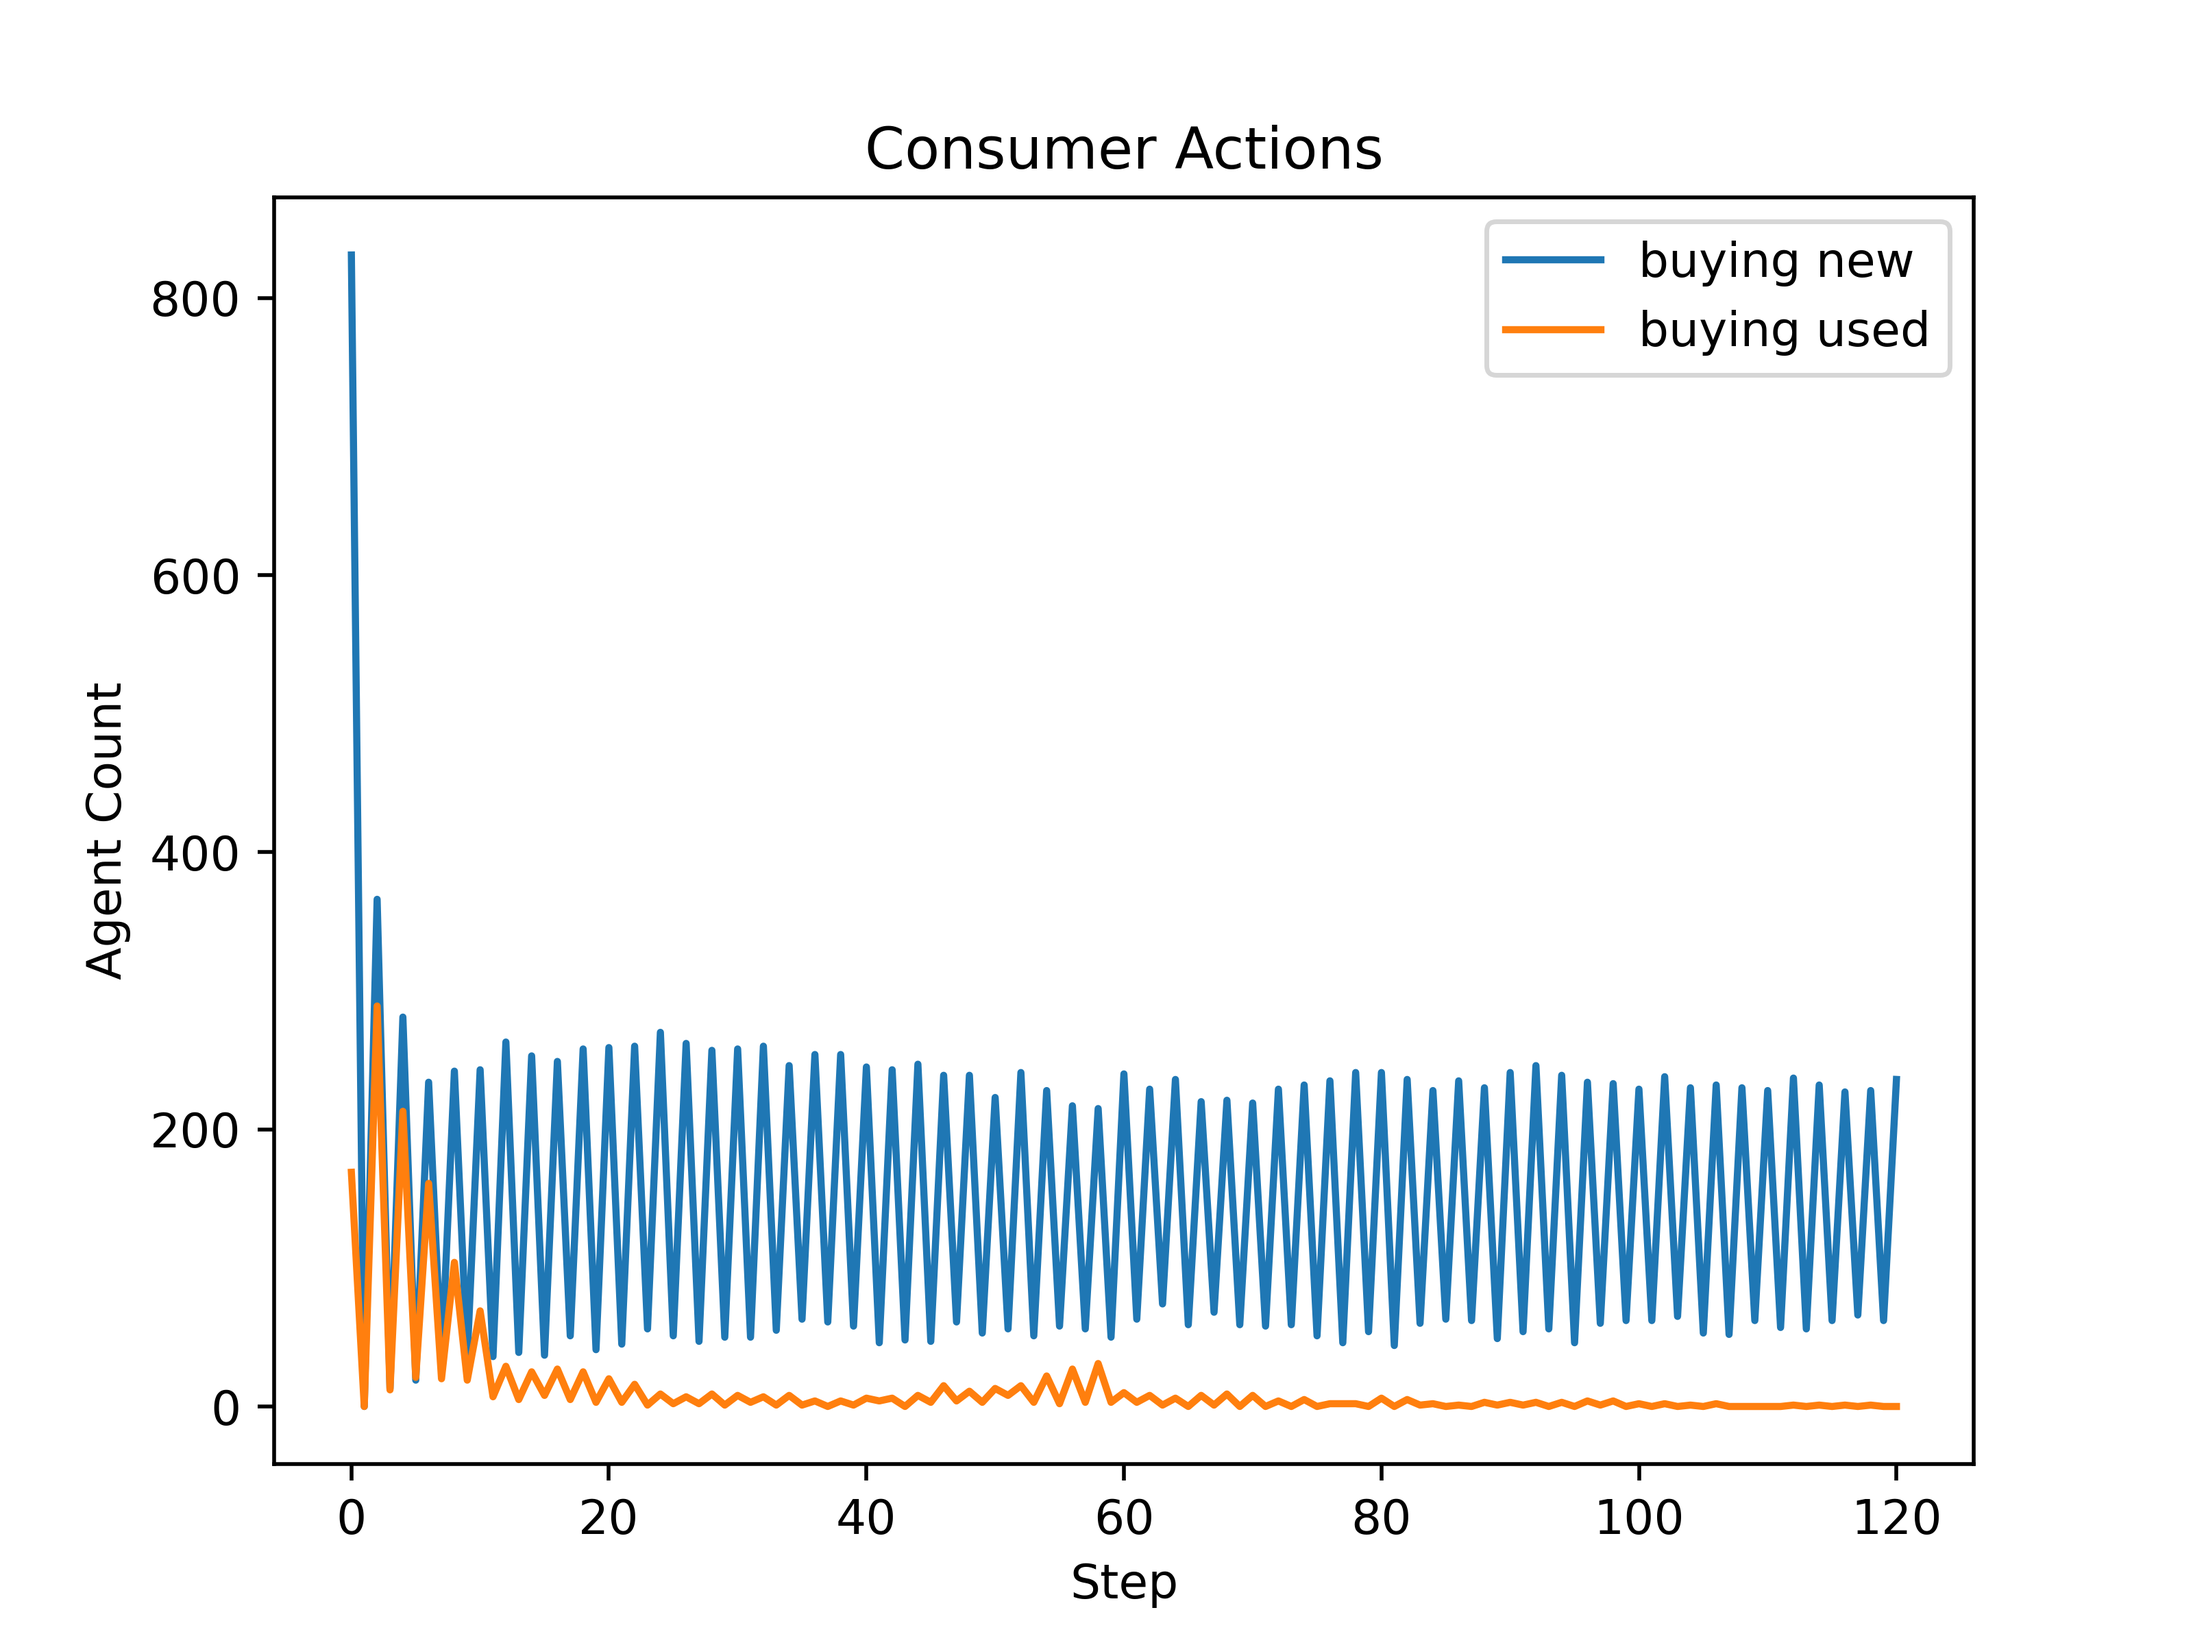
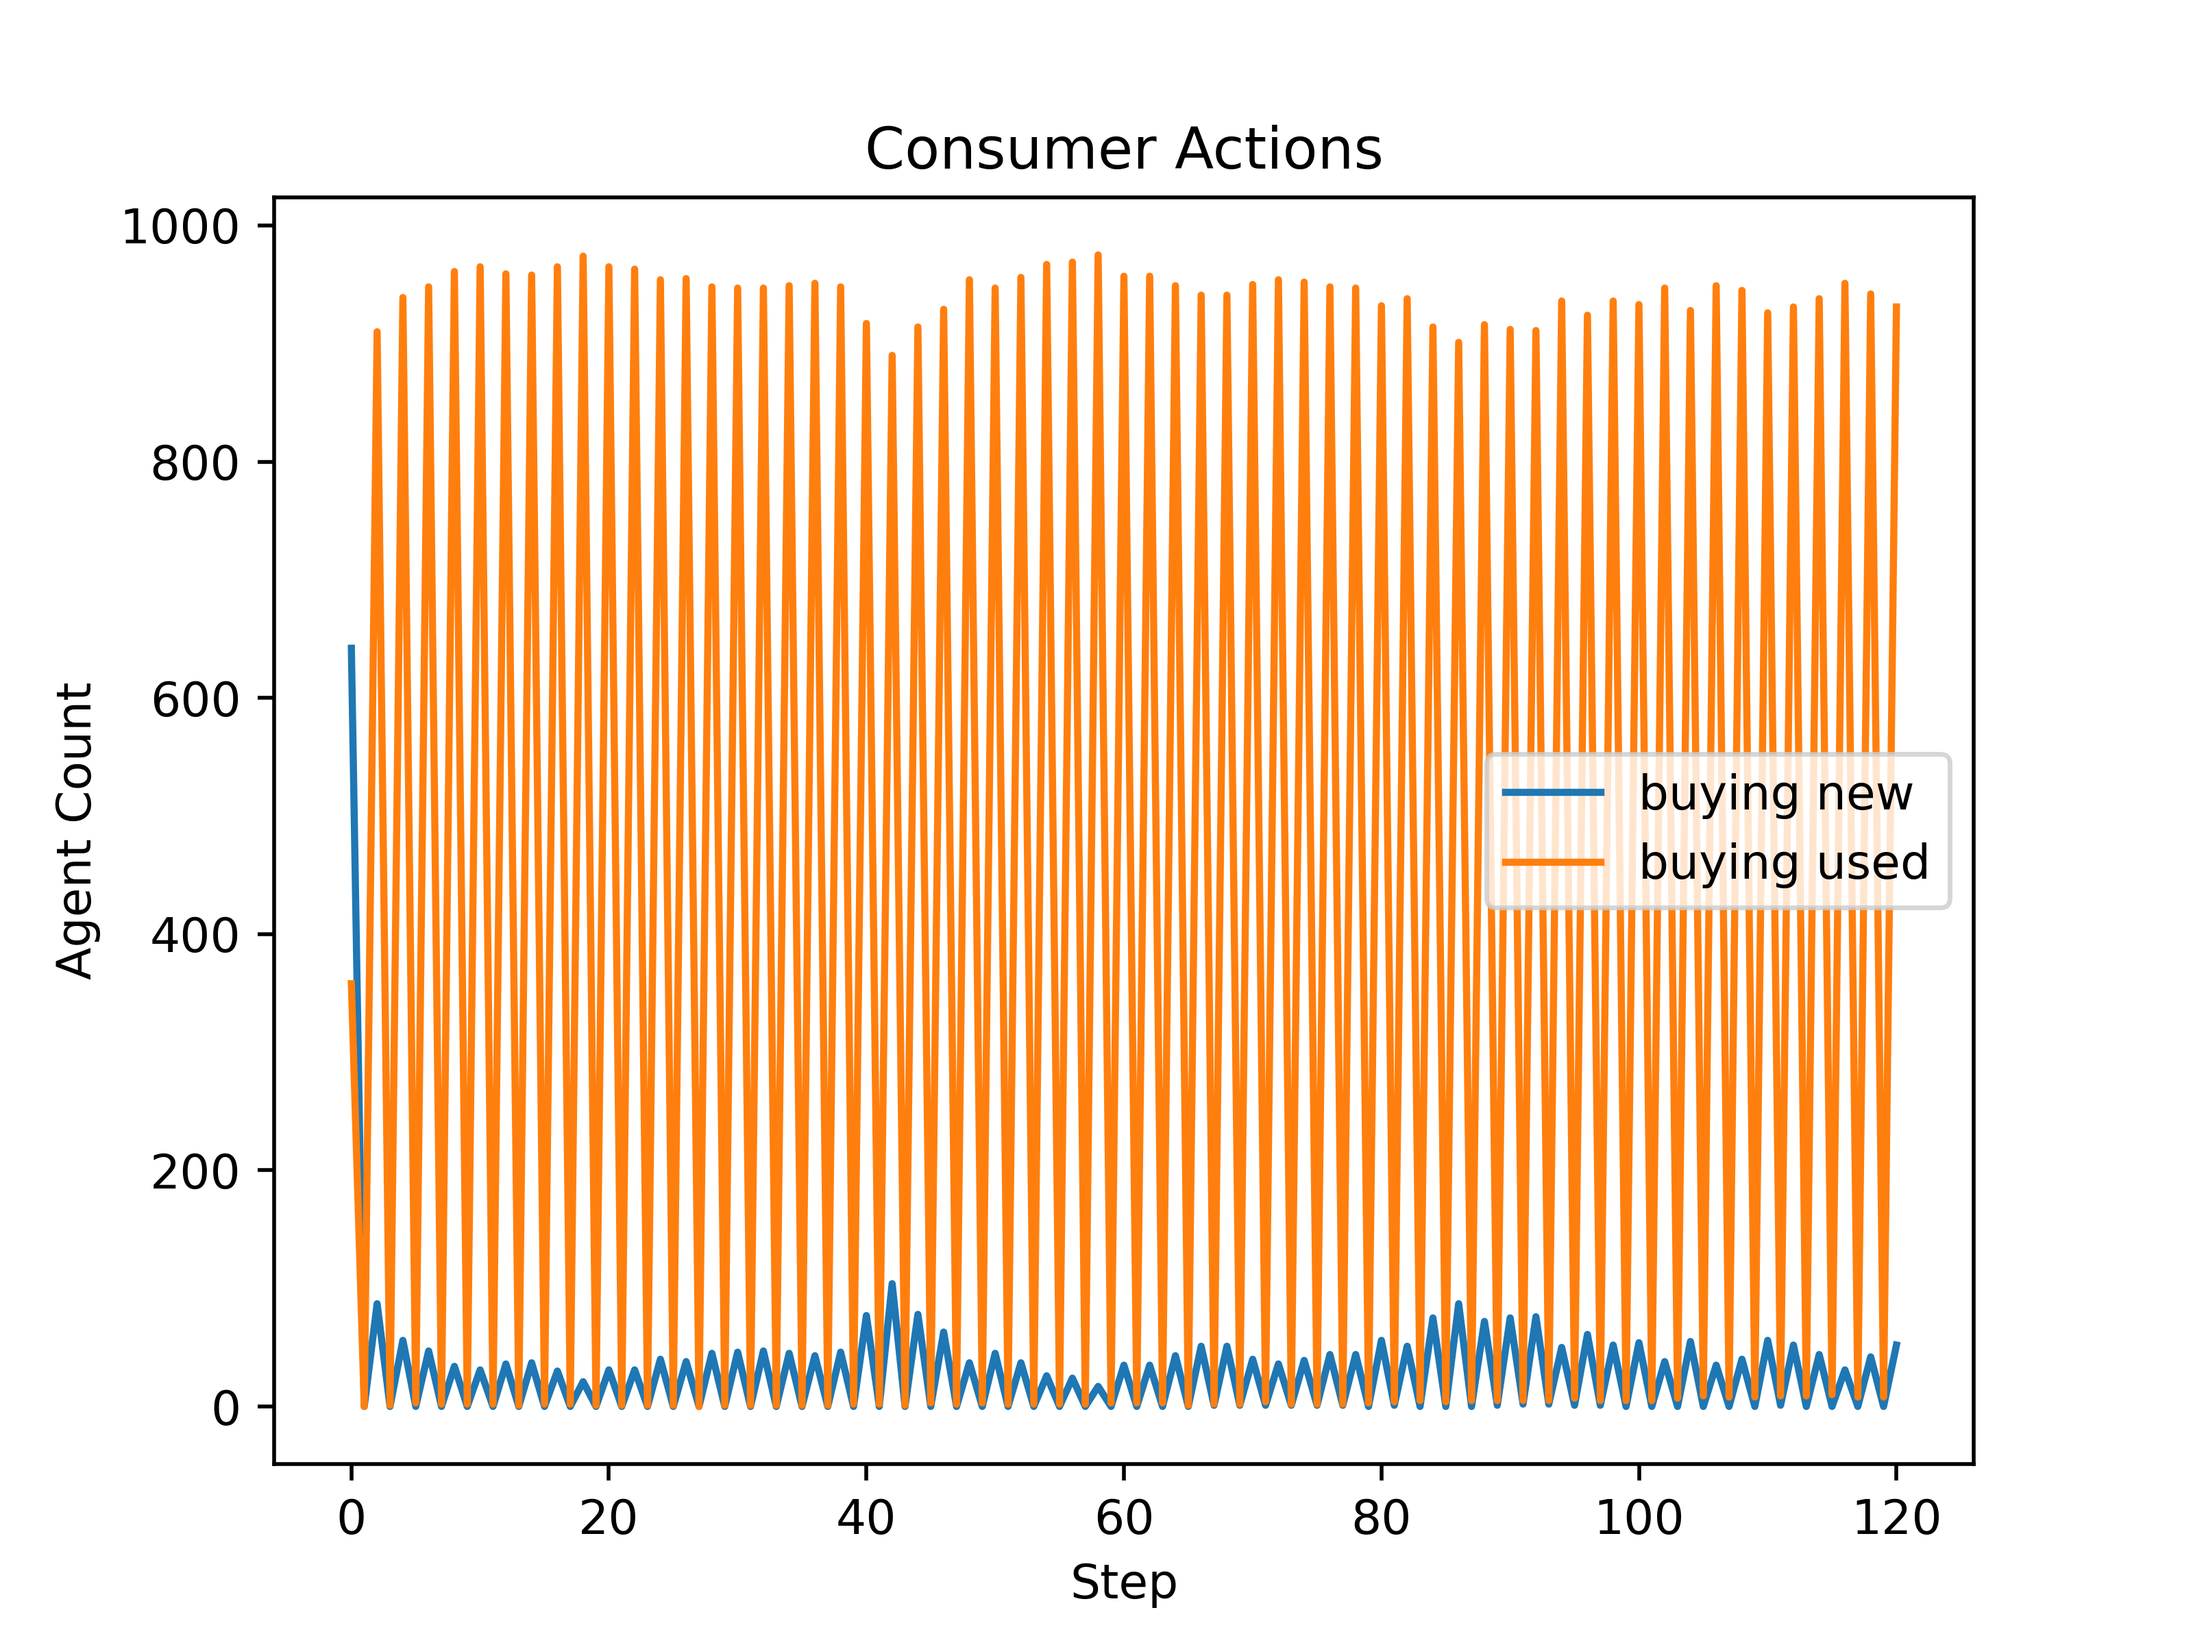
v

diff --git a/ABM_Consumer.py b/ABM_Consumer.py
@@ -65,8 +65,7 @@ class Consumer(Agent):
         # income part
         self.i_mu = 8
         self.i_sigma = 0.44
-        self.income = int(np.random.lognormal(
-            self.i_mu, self.i_sigma, 1))
+        self.income = int(np.random.lognormal(self.i_mu, self.i_sigma, 1))
 
         self.repair_cost = 0
         self.repair_min_perf = 0.35
@@ -74,9 +73,9 @@ class Consumer(Agent):
         self.repair_max_times = 6
 
         self.resell_cost = 0
-        self.landfill_cost = 10
+        self.landfill_cost = float(np.random.normal(0., 0.05))
 
-        self.hoard_cost = 10
+        self.hoard_cost = float(np.random.normal(0., 0.05))
         self.hoard_min_perf = 0.3
         self.recycle_cost = 0
 
@@ -104,11 +103,11 @@ class Consumer(Agent):
                                self.eol_choices[3]: 0.25,
                                self.eol_choices[4]: 0.25}
         # Need to update
-        self.pbc_costs_eol =  {self.eol_choices[0]: 0.005,
-                               self.eol_choices[1]: 0.01,
+        self.pbc_costs_eol =  {self.eol_choices[0]: 0.1,
+                               self.eol_choices[1]: 0.1,
                                self.eol_choices[2]: 0.1,
-                               self.eol_choices[3]: 0.4425,
-                               self.eol_choices[4]: 0.4425}
+                               self.eol_choices[3]: 0.1,
+                               self.eol_choices[4]: 0.1}
 
         # column sum up to 1
         self.purchase_choices = ["used", "new"]
@@ -117,9 +116,9 @@ class Consumer(Agent):
         self.weight_pbc_purchase = {self.purchase_choices[0]: 0.45, self.purchase_choices[1]: 0.45}
 
         # Need to update
-        self.pbc_costs_purchase =  {self.purchase_choices[0]: 0.00, self.purchase_choices[1]: 0.00}
-        self.att_level_buy_used = float(np.random.normal(0.2, 0.05))
-        self.att_level_recycle = float(np.random.normal(0.4, 0.05))
+        self.pbc_costs_purchase =  {self.purchase_choices[0]: 0., self.purchase_choices[1]: 0.}
+        self.att_level_buy_used = float(np.random.normal(0.3, 0.05))
+        self.att_level_recycle = float(np.random.normal(0.3, 0.05))
         self.behavior_intention = {}
 
         # Recycle PBC intention
@@ -316,9 +315,9 @@ class Consumer(Agent):
             self.behavior_intention[choice] = \
                 pbc_values[choice] + sn_values[choice] + att_values[choice]
             #######################################################################
-            # if decision == "eol_pathway":
-            #     print(f'Consumer {self.unique_id}, {choice}, score={self.behavior_intention[choice]:.2f}, ' 
-            #       f'[{pbc_values[choice]:.2f}, {sn_values[choice]:.2f}, {att_values[choice]:.2f}]')
+            if decision == "eol_pathway":
+                print(f'Consumer {self.unique_id}, {choice}, sum={self.behavior_intention[choice]:.2f}, ' 
+                  f'[pbc={pbc_values[choice]:.2f}, sn={sn_values[choice]:.2f}, att={att_values[choice]:.2f}]')
         
         self.pathway_action = max(self.behavior_intention, key=self.behavior_intention.get)
         
@@ -354,7 +353,7 @@ class Consumer(Agent):
         """
         # repair cost need to be paid by consumer
         self.repair_cost = self.smartphone.calculate_repair_cost()
-        # reresell cost is paid by second-hand store
+        # resell cost is paid by second-hand store
         self.resell_cost = -self.smartphone.calculate_resell_price_sechnd()
         # recycle cost is paid by second-hand store
         self.recycle_cost = -self.smartphone.calculate_recycle_price()
@@ -364,6 +363,7 @@ class Consumer(Agent):
             "recycle": self.recycle_cost / self.income, 
             "landfill": self.landfill_cost, 
             "hoard": self.hoard_cost}
+        # print(f'{self.unique_id}, {self.pbc_costs_eol}')
 
     def use_smartphone(self):
         """
@@ -392,15 +392,6 @@ class Consumer(Agent):
             else:
                 print(f"pathway_choice={self.pathway_action} is not available.")
                 raise NotImplementedError
-
-    def dispose_smartphone_in_landfill(self):
-        """
-        Disposing the current smartphone in a landfill.
-        """
-        if self.smartphone is not None:
-            self.smartphone.remove()
-        self.smartphone = None
-        # print(f"Consumer {self.consumer_id} landfilled their smartphone.")
 
     def repair_smartphone(self):
         """
@@ -475,7 +466,7 @@ class Consumer(Agent):
         # Calculate min and max
         values = list(income2price.values())
         min_value = min(values)
-        max_value = min(max(values), 1)
+        max_value = max(values)
         # Apply min-max normalization formula
         n_income2price = {
             key: (value - min_value) / (max_value - min_value)
@@ -590,20 +581,28 @@ class Consumer(Agent):
             processor.recycle_from_customer(self.smartphone, self.unique_id)
             self.smartphone = None
     
+    def landfill_smartphone(self):
+        """
+        Disposing the current smartphone in a landfill.
+        """
+        if self.smartphone is not None:
+            self.smartphone.remove()
+        self.smartphone = None
+        # print(f"Consumer {self.consumer_id} landfilled their smartphone.")
+
     def step(self):
         """
         Main simulation step for the consumer.
         """
-        self.update_purchase_cost()
         if self.model.steps % 12 == 0:
             self.update_income() # update the income according to Matthew Effect
         
         # Check if the consumer needs a smartphone and update 'self.to_purchase'
         self.to_purchase = self.smartphone is None
-
         if self.to_purchase:
             # Decide whether to purchase new or used smartphone
             # update 'self.pathway_choice'
+            self.update_purchase_cost()
             self.tpb_decision(
                 decision='purchase_choice',
                 weight_att=self.weight_att_purchase,
@@ -623,10 +622,8 @@ class Consumer(Agent):
 
         else:
             # Use the smartphone and check EoL decision
-            # update 'self.pathway_choice'
-            self.use_smartphone()
             self.update_eol_cost()
-
+            self.use_smartphone()
             self.tpb_decision(
                 decision='eol_pathway',
                 weight_att=self.weight_att_eol,

diff --git a/ABM_Smartphone.py b/ABM_Smartphone.py
@@ -9,7 +9,7 @@ class Smartphone(Agent):
     def __init__(
             self,
             model,
-            is_new,
+            is_new=True,
             producer_id=None,
             user_id=None,
             performance=1.0,
@@ -53,9 +53,9 @@ class Smartphone(Agent):
         self.demand_used = random.uniform(-0.2, 0.2) # demand of use for each smartphone
         self.discount_rate = random.uniform(0.9, 1.0) # demand of use for each smartphone
         self.material_value = 500 # material_value depends on the ingredients of product
+        self.warranty_duration = 6 if self.is_new else 0  # New phones come with 6 months warranty
         self.resell_value = self.calculate_resell_price_sechnd()  # Value if resold in the second-hand market
-        self.warranty_duration = 6 if self.is_new else 0  # New phones come with 12 months warranty
-
+        
         # Recycle Service
         self.perf_rec = 0.1
         self.time_rec = 0.2
@@ -91,7 +91,7 @@ class Smartphone(Agent):
             self.degrade_performance(decay_rate=self.decay_rate, noise_decay=self.noise_decay)
         else:
             self.degrade_performance(decay_rate=0.5 * self.decay_rate, noise_decay=self.noise_decay)
-        # update cost price for eol
+        # # update cost price for eol
         self.calculate_repair_cost()
         self.calculate_recycle_price()
         self.calculate_resell_price_sechnd()
@@ -106,7 +106,7 @@ class Smartphone(Agent):
         store_initial_cost (float): Initial repair cost for second-hand store or recycler.
         store_handled_phones (int): current number of phones handled by the store or recycler.
         """
-        if self.time_held < self.warranty_duration:  # Phone is under warranty
+        if self.time_held <= self.warranty_duration:  # Phone is under warranty
             self.repair_cost = 0  # Free repair under warranty (or set to a very low cost)
             # print(f"Phone is under warranty. Repair cost: {self.repair_cost}")
         
@@ -147,11 +147,13 @@ class Smartphone(Agent):
             float: The price the second-hand store is willing to pay for the used smartphone.
         """
         # Normalized repair cost (repair cost relative to new phone price)
+        self.calculate_repair_cost()
         normalized_repair_cost = self.repair_cost / self.purchase_price
-        # Calculate the buying price considering performance, repair cost, and demand
-        buying_price = (self.purchase_price * self.performance) * (1 - normalized_repair_cost)
-        # Adjust the buying price based on the demand for used phones
-        self.resell_price = buying_price * (1 + self.demand_used)
+        # Calculate the buying price considering performance, repair cost, and demand for used phones
+        buying_price = self.purchase_price * self.performance * \
+            (1 - normalized_repair_cost) * (1 + self.demand_used) * self.discount_rate
+        self.secondhand_market_price = int(min(0.8 * self.purchase_price, buying_price))
+        self.resell_price = buying_price
         return self.resell_price
 
     def calculate_sechnd_market_price(self):
